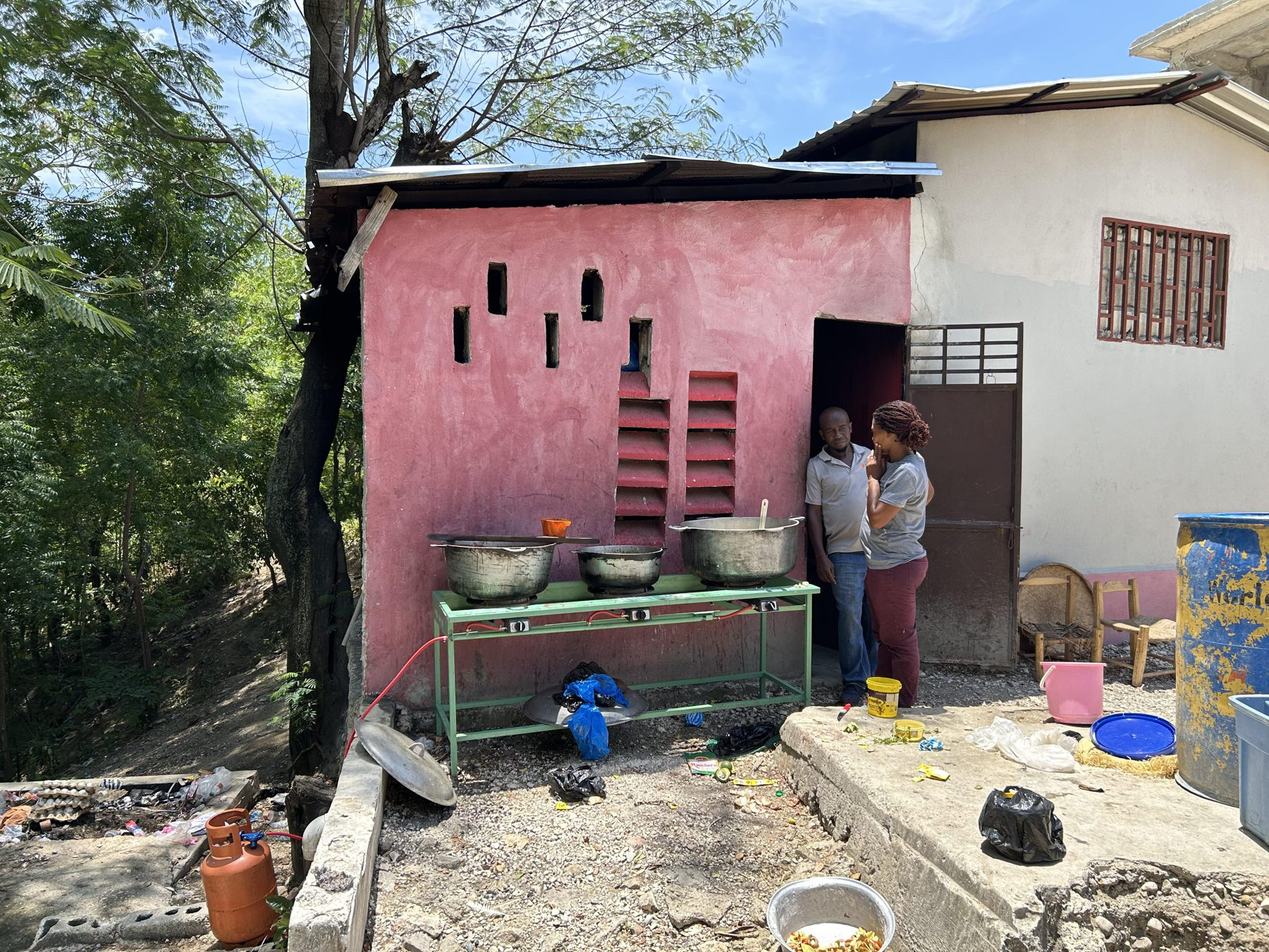
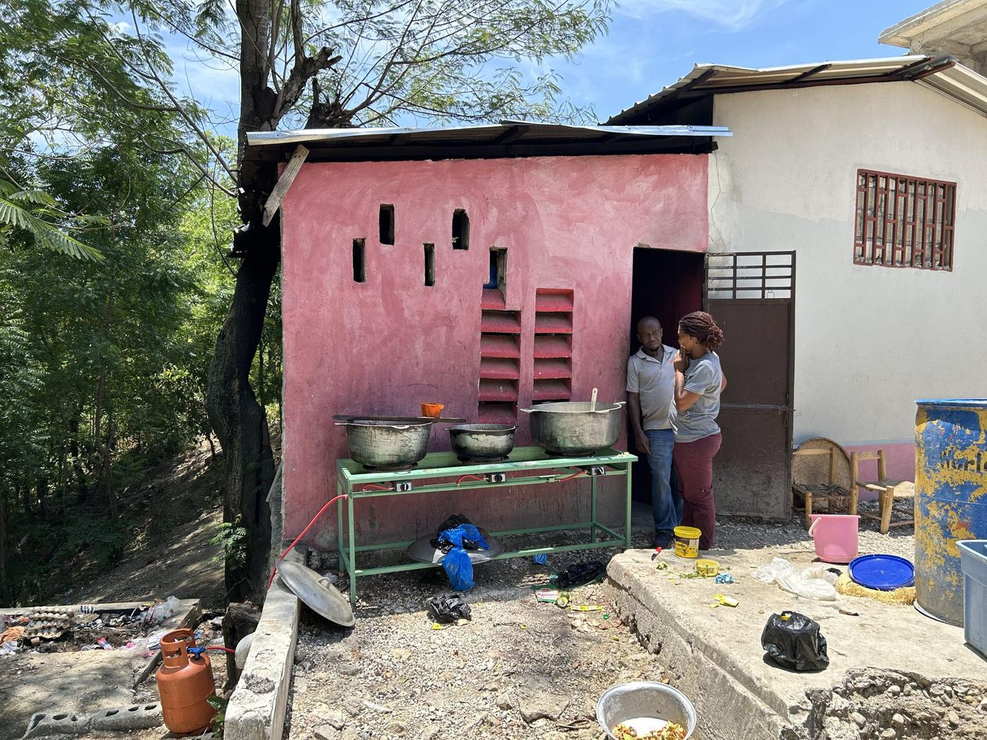
Fix P1 issues from design audit
- Point the two publication links at their DOIs instead of the project page
- Remove two duplicate photos (stops 2 and 4 showed the same image twice)
- Restore the keyboard focus ring on the overview stop buttons
- Resize photos to 1400px (8.2 MB -> 3.9 MB) and set the cover image in HTML
- Embed the driving route instead of fetching it from the public OSRM demo server

diff --git a/index.html b/index.html
@@ -33,7 +33,8 @@ body{margin:0;background:var(--paper);color:var(--ink);font:400 1.0625rem/1.72 v
 img{max-width:100%;display:block}
 a{color:var(--leaf);text-underline-offset:.18em;text-decoration-thickness:1px}
 @media (hover:hover){ a:hover{text-decoration-thickness:2px} }
-:focus-visible{outline:2px solid var(--canopy);outline-offset:3px;border-radius:4px;box-shadow:0 0 0 6px color-mix(in srgb,var(--mango) 45%,transparent)}
+/* .overview-list button uses all:unset, which outranks plain :focus-visible, so it is named here too. */
+:focus-visible,.overview-list button:focus-visible{outline:2px solid var(--canopy);outline-offset:3px;border-radius:4px;box-shadow:0 0 0 6px color-mix(in srgb,var(--mango) 45%,transparent)}
 /* Browser surfaces in the palette */
 ::selection{background:color-mix(in srgb,var(--mango) 38%,transparent);color:var(--ink)}
 html{scrollbar-color:color-mix(in srgb,var(--leaf) 60%,var(--paper)) var(--leaf-soft);caret-color:var(--leaf)}
@@ -333,7 +334,7 @@ html.lenis,html.lenis body{height:auto}
 <div class="jungle jungle-r" aria-hidden="true"><svg viewBox="0 0 320 1000" preserveAspectRatio="xMinYMid slice" focusable="false"><use href="#j-frond" class="j-field" transform="translate(-10 170) rotate(-4) scale(.9)"/><use href="#j-leaf" class="j-leaf" transform="translate(-36 300) rotate(-20) scale(1.1)"/><use href="#j-leaf" class="j-canopy" transform="translate(-44 520) rotate(18) scale(1.2)"/><use href="#j-frond" class="j-leaf" transform="translate(-12 700) rotate(10) scale(1.05)"/><use href="#j-stalk" class="j-field" transform="translate(95 1000) scale(.9)"/><use href="#j-leaf" class="j-canopy" transform="translate(-30 930) rotate(-34) scale(.9)"/></svg></div>
 <header class="cover">
   <a class="back-link" href="https://globalfoodinstitute.gwu.edu/leveraging-school-meals-crisis-resilience-haiti-0"><svg class="btn-ico" viewBox="0 0 24 24" aria-hidden="true" focusable="false"><path d="M15 6l-6 6 6 6"/></svg>Crisis-Resilient School Meals<span class="back-long"> at the Global Food Institute</span></a>
-  <img id="coverImg" alt="The Global Food Institute team in Haiti" fetchpriority="high">
+  <img id="coverImg" src="photos/2ab947bb-3d19-4f8e-a854-4085e5c7de89.jpeg" width="1400" height="933" alt="The Global Food Institute team in Haiti" fetchpriority="high">
   <div class="inner wrap"><div class="wide">
     <h1>Haiti Workshop and Coordination Work Trip</h1>
     <p class="sub">From field to meals</p>
@@ -417,8 +418,8 @@ html.lenis,html.lenis body{height:auto}
         <p>The first results are already being published.</p>
       </div>
       <ul class="pubs">
-        <li><a href="https://globalfoodinstitute.gwu.edu/leveraging-school-meals-crisis-resilience-haiti-0" target="_blank" rel="noopener noreferrer">From Aid to Engine: Reimagining School Feeding as a Driver of Resilient Food Systems</a><span>Global Food Institute, August 2026. The first in a series on the School Meals 3.0 model, also available in French.</span></li>
-        <li><a href="https://globalfoodinstitute.gwu.edu/leveraging-school-meals-crisis-resilience-haiti-0" target="_blank" rel="noopener noreferrer">Research in Practice: Deploying Anticipatory Analytics for School Feeding Programs in Fragile Settings</a><span>Global Food Institute and Summits Education, September 2026. How routine school feeding data can warn of trouble ahead.</span></li>
+        <li><a href="https://doi.org/10.4079/GFI.2026.07" target="_blank" rel="noopener noreferrer">From Aid to Engine: Reimagining School Feeding as a Driver of Resilient Food Systems</a><span>Global Food Institute, August 2026. The first in a series on the School Meals 3.0 model, also available in French.</span></li>
+        <li><a href="https://doi.org/10.4079/GFI.2026.09" target="_blank" rel="noopener noreferrer">Research in Practice: Deploying Anticipatory Analytics for School Feeding Programs in Fragile Settings</a><span>Global Food Institute and Summits Education, September 2026. How routine school feeding data can warn of trouble ahead.</span></li>
       </ul>
     </div>
   </div>
@@ -429,7 +430,6 @@ html.lenis,html.lenis body{height:auto}
 <p>This trip started in the north at the city of Cap-Haïtien, where we landed. After a quick breakfast of Haitian spaghetti, we hit the road toward the Central Plateau.</p>
 </div>
 <div class="takeaway" data-stop="2">
-<figure class="ph" data-photo="64b0d917-0255-44da-bebf-3100ee184fe6.jpeg" data-cap="The view from our hotel in Hinche. The town sits in the middle of the Central Plateau, an inland farming region of small plots and rolling hills, and was our base for two days of site visits."></figure>
 <p>After a scenic, bumpy four hours we arrived in Hinche. Our hotel here was home base while we visited the local Acceso depot and two schools in the Summits Education program.</p>
 </div>
 <div class="takeaway" data-stop="3">
@@ -440,7 +440,6 @@ html.lenis,html.lenis body{height:auto}
 <p>This is the Acceso depot for the area. Acceso runs depots across the country wherever it works. Each one is a collection point for local farmers: their harvests are pooled here, then shipped to wherever the order is going, whether that's a market, a school, or another buyer.</p>
 </div>
 <div class="takeaway" data-stop="4">
-<figure class="ph" data-photo="e93c60eb-8eae-47f0-8e5c-a91cc4d8bd7b.jpeg" data-cap="The kitchen at the first school, where staff cook about 350 meals a day. Every ingredient bought locally here is a sale for a Haitian farmer."></figure>
 <p>Our first school visit, to <a href="https://www.summits.org/school/communautaire-saint-paul-morne-thomonde" target="_blank" rel="noopener noreferrer">École Communautaire Saint Paul</a> in Morne Thomonde, happened to coincide with a teacher training seminar. Compared with other schools in the region, this one was relatively well built, though it still faced its share of challenges. Staff emphasized how much school meals matter. For many families, a guaranteed meal is a strong reason to send children to school, and students who aren't hungry are better able to concentrate and learn.</p>
 </div>
 <div class="takeaway" data-stop="5">
@@ -516,7 +515,6 @@ function scrollToCenter(el){
 const PHOTO_BASE = "photos/";
 const photo = f => PHOTO_BASE + f;
 
-const COVER = "2ab947bb-3d19-4f8e-a854-4085e5c7de89.jpeg";
 const LOGOS = [["wnqyH5sh1xxX_l_St4vSM.png","Acceso"],["1bXtjCD3TohY00w412tI4.jpg","Global Food Institute"],["Ja6-N-aR8NJqvau0j94S5.jpg","Haiti Food System Alliance"],["b4glSokmEHiOJI7EO3SvQ.png","Summits Education"],["yTHtboZo3gm4pDx8rqfKx.jpg","World Central Kitchen"],["photos/chibas-logo.png","Chibas"]];
 
 const STOPS = [
@@ -547,7 +545,6 @@ const esc = s => s.replace(/&/g,"&amp;").replace(/</g,"&lt;").replace(/"/g,"&quo
 const fmt = (lat,lng) => `${Math.abs(lat).toFixed(4)}° N, ${Math.abs(lng).toFixed(4)}° W`;
 
 /* Static photos */
-document.getElementById("coverImg").src = photo(COVER);
 document.getElementById("logos").innerHTML = LOGOS.map(([f, name]) => f.includes("/")  /* a logo already saved in this folder, e.g. photos/chibas-logo.png */
   ? `<figure class="fill"><img src="${f}" alt="${esc(name)}" loading="lazy"></figure>`
   : `<figure><img src="${photo(f)}" alt="${esc(name)}" loading="lazy"></figure>`).join("");
@@ -683,18 +680,10 @@ const bounds = L.latLngBounds(pts).pad(0.5);
 map.fitBounds(bounds);
 
 const leaf = getComputedStyle(document.documentElement).getPropertyValue("--leaf").trim() || "#2E6B45";
-let route = L.polyline(pts, { color:leaf, weight:3, opacity:.7, dashArray:"6 8" }).addTo(map);
-
-/* Road-following route from the public OSRM service; keeps the dashed straight line if unavailable. */
-fetch("https://router.project-osrm.org/route/v1/driving/" + STOPS.map(s => `${s.lng},${s.lat}`).join(";") + "?overview=full&geometries=geojson")
-  .then(r => r.ok ? r.json() : Promise.reject())
-  .then(j => {
-    const c = j.routes && j.routes[0] && j.routes[0].geometry.coordinates;
-    if (!c) return;
-    map.removeLayer(route);
-    route = L.polyline(c.map(([x,y]) => [y,x]), { color:leaf, weight:4, opacity:.85 }).addTo(map);
-    markers.forEach(m => m.bringToFront && m.bringToFront());
-  }).catch(() => {});
+/* Road-following route, fetched once from OSRM (driving, via all stops in order) and simplified to ~20 m.
+   Saved here so the page does not depend on the public OSRM demo server. */
+const ROUTE = [[19.7592,-72.198],[19.7554,-72.201],[19.7528,-72.202],[19.7498,-72.2026],[19.7472,-72.2017],[19.7444,-72.1993],[19.7403,-72.1923],[19.7395,-72.1902],[19.735,-72.1869],[19.7357,-72.1861],[19.7353,-72.1857],[19.7345,-72.1865],[19.729,-72.1825],[19.7278,-72.182],[19.6828,-72.1799],[19.6817,-72.1803],[19.6784,-72.1831],[19.6754,-72.1851],[19.6625,-72.193],[19.6576,-72.1941],[19.6444,-72.1952],[19.6239,-72.1976],[19.6234,-72.1969],[19.6225,-72.1891],[19.6221,-72.1791],[19.6215,-72.1725],[19.6204,-72.1718],[19.6164,-72.1706],[19.6146,-72.1708],[19.6138,-72.1711],[19.6129,-72.1723],[19.6103,-72.1728],[19.6059,-72.1744],[19.6043,-72.1769],[19.6034,-72.1779],[19.6023,-72.1785],[19.6017,-72.1804],[19.6003,-72.1826],[19.5982,-72.184],[19.596,-72.1844],[19.5959,-72.1866],[19.5946,-72.1884],[19.594,-72.1917],[19.592,-72.1943],[19.5917,-72.1954],[19.5894,-72.1967],[19.5862,-72.1999],[19.585,-72.2065],[19.5852,-72.2077],[19.5843,-72.208],[19.5846,-72.2089],[19.5843,-72.2107],[19.5836,-72.2105],[19.5835,-72.2098],[19.583,-72.2097],[19.5825,-72.2116],[19.582,-72.2112],[19.5813,-72.2114],[19.581,-72.2108],[19.5802,-72.211],[19.5798,-72.2122],[19.5791,-72.2131],[19.5784,-72.2128],[19.5779,-72.2134],[19.5773,-72.2134],[19.5765,-72.2139],[19.5763,-72.2145],[19.5755,-72.2141],[19.5739,-72.2144],[19.5733,-72.215],[19.5724,-72.2147],[19.571,-72.2154],[19.5687,-72.216],[19.5681,-72.2164],[19.568,-72.2169],[19.5664,-72.217],[19.5658,-72.2174],[19.5641,-72.2201],[19.5639,-72.2212],[19.5623,-72.2236],[19.562,-72.2255],[19.56,-72.2313],[19.5588,-72.2325],[19.5587,-72.2335],[19.5579,-72.2356],[19.5567,-72.2363],[19.5526,-72.2375],[19.546,-72.2367],[19.5392,-72.2371],[19.5383,-72.2387],[19.5358,-72.2391],[19.5283,-72.2419],[19.526,-72.239],[19.5243,-72.2397],[19.5234,-72.2389],[19.5219,-72.2363],[19.522,-72.2339],[19.5212,-72.2327],[19.5191,-72.2326],[19.5178,-72.2313],[19.5158,-72.2307],[19.5125,-72.2308],[19.5078,-72.2304],[19.5062,-72.2297],[19.5045,-72.2282],[19.5012,-72.2275],[19.5,-72.2252],[19.4948,-72.2215],[19.4935,-72.2196],[19.4919,-72.2183],[19.4914,-72.2166],[19.49,-72.215],[19.4902,-72.2119],[19.4874,-72.2099],[19.4863,-72.2096],[19.4841,-72.2085],[19.4827,-72.2084],[19.4729,-72.2055],[19.469,-72.2046],[19.466,-72.2044],[19.4623,-72.2028],[19.4599,-72.2034],[19.4588,-72.2032],[19.4572,-72.2039],[19.4536,-72.2045],[19.4416,-72.2015],[19.439,-72.2002],[19.4386,-72.1981],[19.4372,-72.1958],[19.4371,-72.1941],[19.4356,-72.1914],[19.4353,-72.1889],[19.4331,-72.1881],[19.4314,-72.188],[19.4302,-72.1867],[19.4279,-72.1811],[19.424,-72.1758],[19.4215,-72.1697],[19.419,-72.167],[19.4152,-72.1649],[19.4093,-72.1608],[19.4081,-72.1589],[19.4039,-72.1569],[19.4015,-72.1562],[19.3976,-72.1537],[19.3955,-72.1515],[19.3917,-72.1463],[19.3899,-72.1423],[19.3859,-72.1353],[19.3855,-72.1313],[19.3858,-72.1291],[19.3854,-72.128],[19.3848,-72.1274],[19.3819,-72.1268],[19.3743,-72.1266],[19.3502,-72.1267],[19.3427,-72.1227],[19.341,-72.1212],[19.3383,-72.1174],[19.3349,-72.116],[19.3318,-72.1157],[19.3302,-72.1142],[19.3262,-72.1137],[19.3179,-72.1106],[19.3166,-72.1087],[19.3136,-72.1011],[19.3098,-72.0941],[19.3084,-72.0927],[19.3062,-72.0915],[19.3008,-72.0905],[19.2993,-72.0887],[19.2991,-72.087],[19.2977,-72.0864],[19.2945,-72.0819],[19.2922,-72.0727],[19.296,-72.0626],[19.2939,-72.0607],[19.293,-72.0571],[19.2923,-72.0559],[19.2883,-72.0512],[19.2851,-72.0486],[19.2797,-72.0474],[19.2771,-72.048],[19.2738,-72.0457],[19.2699,-72.0451],[19.2673,-72.0398],[19.2664,-72.033],[19.266,-72.0323],[19.2654,-72.0319],[19.2597,-72.0302],[19.2519,-72.0261],[19.2513,-72.026],[19.2492,-72.0267],[19.2477,-72.0268],[19.2459,-72.0265],[19.2433,-72.0253],[19.2411,-72.0258],[19.2388,-72.0254],[19.2358,-72.0272],[19.2328,-72.0279],[19.2299,-72.0274],[19.2255,-72.0258],[19.2246,-72.0261],[19.2231,-72.0279],[19.222,-72.0285],[19.2198,-72.0282],[19.2177,-72.0275],[19.216,-72.0276],[19.2134,-72.0288],[19.207,-72.028],[19.2039,-72.0268],[19.2014,-72.025],[19.2,-72.0245],[19.1943,-72.0239],[19.187,-72.0222],[19.1834,-72.0203],[19.182,-72.0199],[19.1798,-72.0202],[19.1666,-72.0153],[19.1642,-72.0139],[19.1638,-72.0104],[19.1629,-72.0096],[19.1536,-72.0094],[19.1502,-72.0087],[19.1478,-72.0091],[19.1466,-72.0085],[19.1444,-72.0094],[19.145,-72.0107],[19.1464,-72.0103],[19.146,-72.0087],[19.1442,-72.006],[19.1414,-72.0037],[19.139,-72.0028],[19.139,-72.0034],[19.1379,-72.0046],[19.1373,-72.0041],[19.1377,-72.0025],[19.1342,-72.0026],[19.1312,-72.0033],[19.1295,-72.0033],[19.1253,-72.0022],[19.1208,-72.0015],[19.1138,-72.0086],[19.1091,-72.0095],[19.1057,-72.0061],[19.0997,-72.0019],[19.0957,-72.0019],[19.0909,-71.9991],[19.0885,-71.9953],[19.0865,-71.993],[19.0829,-71.9925],[19.0793,-71.9939],[19.0759,-71.9963],[19.0755,-71.9964],[19.0728,-71.9921],[19.0714,-71.9886],[19.0701,-71.9882],[19.0682,-71.9885],[19.0657,-71.9865],[19.0632,-71.9859],[19.063,-71.9852],[19.0635,-71.9831],[19.0633,-71.9826],[19.0598,-71.979],[19.0579,-71.9758],[19.0571,-71.9753],[19.0557,-71.9754],[19.0544,-71.9733],[19.0525,-71.9731],[19.0502,-71.9714],[19.0493,-71.9715],[19.0488,-71.9709],[19.048,-71.9708],[19.0472,-71.9715],[19.047,-71.9725],[19.0472,-71.9738],[19.0445,-71.9747],[19.0427,-71.9744],[19.036,-71.9707],[19.0318,-71.9692],[19.0295,-71.9676],[19.0286,-71.966],[19.0267,-71.9659],[19.025,-71.9654],[19.0253,-71.9673],[19.0244,-71.9678],[19.0242,-71.9675],[19.0216,-71.9695],[19.0208,-71.969],[19.0191,-71.9698],[19.0184,-71.9645],[19.0172,-71.9616],[19.0152,-71.9575],[19.0134,-71.952],[19.0123,-71.9507],[19.0117,-71.9504],[19.0054,-71.9524],[19.0041,-71.952],[19.0035,-71.9513],[19.003,-71.9512],[19.0004,-71.9519],[18.9997,-71.9527],[19.0002,-71.9548],[18.9989,-71.9562],[18.9986,-71.9579],[18.998,-71.9588],[18.9984,-71.9629],[18.9993,-71.9654],[18.9991,-71.969],[18.9983,-71.9709],[18.9972,-71.9717],[18.9958,-71.9732],[18.9962,-71.9745],[18.9955,-71.9752],[18.9955,-71.9758],[18.9946,-71.9772],[18.9949,-71.9786],[18.9964,-71.9798],[18.9963,-71.9812],[18.9967,-71.9819],[18.9936,-71.9868],[18.9933,-71.9878],[18.9936,-71.9891],[18.9933,-71.9894],[18.9915,-71.9903],[18.9906,-71.9901],[18.9885,-71.987],[18.9861,-71.9846],[18.9855,-71.9835],[18.9838,-71.9821],[18.9829,-71.9823],[18.98,-71.9817],[18.9784,-71.9829],[18.9776,-71.9827],[18.976,-71.9814],[18.9752,-71.9813],[18.974,-71.982],[18.9737,-71.9828],[18.9743,-71.9855],[18.9741,-71.9882],[18.9735,-71.9904],[18.9738,-71.9935],[18.9708,-71.9956],[18.9703,-71.9984],[18.9679,-71.9987],[18.9668,-71.9977],[18.9646,-71.9988],[18.9643,-71.9998],[18.965,-72.0014],[18.9651,-72.0033],[18.9647,-72.0043],[18.9638,-72.0052],[18.9624,-72.0057],[18.9591,-72.006],[18.9573,-72.005],[18.9541,-72.0053],[18.9474,-72.0015],[18.9453,-71.9989],[18.9448,-71.999],[18.9442,-72.0004],[18.9448,-71.999],[18.9453,-71.9989],[18.9474,-72.0015],[18.9541,-72.0053],[18.9573,-72.005],[18.9591,-72.006],[18.9624,-72.0057],[18.9638,-72.0052],[18.9647,-72.0043],[18.9651,-72.0033],[18.965,-72.0014],[18.9643,-71.9998],[18.9646,-71.9988],[18.9668,-71.9977],[18.9679,-71.9987],[18.9703,-71.9984],[18.9708,-71.9956],[18.9738,-71.9935],[18.9735,-71.9904],[18.9741,-71.9882],[18.9743,-71.9855],[18.9737,-71.9828],[18.974,-71.982],[18.9752,-71.9813],[18.976,-71.9814],[18.9776,-71.9827],[18.9784,-71.9829],[18.98,-71.9817],[18.9829,-71.9823],[18.9838,-71.9821],[18.9855,-71.9835],[18.9861,-71.9846],[18.9885,-71.987],[18.9906,-71.9901],[18.9915,-71.9903],[18.9933,-71.9894],[18.9936,-71.9891],[18.9933,-71.9878],[18.9936,-71.9868],[18.9967,-71.9819],[18.9963,-71.9812],[18.9964,-71.9798],[18.9949,-71.9786],[18.9946,-71.9772],[18.9955,-71.9758],[18.9955,-71.9752],[18.9962,-71.9745],[18.9958,-71.9732],[18.9972,-71.9717],[18.9983,-71.9709],[18.9991,-71.969],[18.9993,-71.9654],[18.9984,-71.9629],[18.998,-71.9588],[18.9986,-71.9579],[18.9989,-71.9562],[19.0002,-71.9548],[18.9997,-71.9527],[19.0004,-71.9519],[19.003,-71.9512],[19.0035,-71.9513],[19.0041,-71.952],[19.0054,-71.9524],[19.0117,-71.9504],[19.0123,-71.9507],[19.0134,-71.952],[19.0152,-71.9575],[19.0184,-71.9645],[19.0211,-71.9642],[19.0267,-71.9659],[19.0286,-71.966],[19.0295,-71.9676],[19.0318,-71.9692],[19.036,-71.9707],[19.0427,-71.9744],[19.0445,-71.9747],[19.0472,-71.9738],[19.047,-71.9725],[19.0472,-71.9715],[19.048,-71.9708],[19.0488,-71.9709],[19.0493,-71.9715],[19.0503,-71.9714],[19.0525,-71.9731],[19.0543,-71.9732],[19.0556,-71.9753],[19.0571,-71.9753],[19.0579,-71.9758],[19.0598,-71.979],[19.0628,-71.9818],[19.0635,-71.9831],[19.063,-71.9846],[19.0632,-71.9859],[19.0657,-71.9865],[19.0682,-71.9885],[19.0701,-71.9882],[19.0714,-71.9886],[19.0728,-71.9921],[19.0755,-71.9964],[19.0759,-71.9963],[19.0793,-71.9939],[19.0829,-71.9925],[19.0865,-71.993],[19.0885,-71.9953],[19.0909,-71.9991],[19.0957,-72.0019],[19.0997,-72.0019],[19.1057,-72.0061],[19.1091,-72.0095],[19.1138,-72.0086],[19.1208,-72.0015],[19.1253,-72.0022],[19.1295,-72.0033],[19.1311,-72.0029],[19.1377,-72.0025],[19.1373,-72.0041],[19.1379,-72.0046],[19.139,-72.0034],[19.139,-72.0028],[19.1414,-72.0037],[19.1441,-72.0059],[19.146,-72.0087],[19.1466,-72.0085],[19.1478,-72.0091],[19.1502,-72.0087],[19.1536,-72.0094],[19.1603,-72.0095],[19.1609,-72.0091],[19.1613,-72.0095],[19.1629,-72.0096],[19.1638,-72.0104],[19.1642,-72.0139],[19.1666,-72.0153],[19.1798,-72.0202],[19.182,-72.0199],[19.1834,-72.0203],[19.187,-72.0222],[19.1943,-72.0239],[19.2,-72.0245],[19.2014,-72.025],[19.2039,-72.0268],[19.207,-72.028],[19.2134,-72.0288],[19.216,-72.0276],[19.2177,-72.0275],[19.2198,-72.0282],[19.222,-72.0285],[19.2231,-72.0279],[19.2246,-72.0261],[19.2255,-72.0258],[19.2299,-72.0274],[19.2328,-72.0279],[19.2358,-72.0272],[19.2388,-72.0254],[19.2411,-72.0258],[19.2433,-72.0253],[19.2459,-72.0265],[19.2477,-72.0268],[19.2492,-72.0267],[19.2513,-72.026],[19.2519,-72.0261],[19.2597,-72.0302],[19.2654,-72.0319],[19.266,-72.0323],[19.2664,-72.033],[19.2673,-72.0398],[19.2699,-72.0451],[19.2738,-72.0457],[19.2771,-72.048],[19.2797,-72.0474],[19.2851,-72.0486],[19.2883,-72.0512],[19.2923,-72.0559],[19.293,-72.0571],[19.2939,-72.0607],[19.296,-72.0626],[19.2922,-72.0727],[19.2945,-72.0819],[19.2977,-72.0864],[19.2991,-72.087],[19.2993,-72.0887],[19.3008,-72.0905],[19.3062,-72.0915],[19.3084,-72.0927],[19.3098,-72.0941],[19.3136,-72.1011],[19.3166,-72.1087],[19.3179,-72.1106],[19.3262,-72.1137],[19.3302,-72.1142],[19.3318,-72.1157],[19.3349,-72.116],[19.3383,-72.1174],[19.341,-72.1212],[19.3427,-72.1227],[19.3502,-72.1267],[19.3743,-72.1266],[19.3819,-72.1268],[19.3848,-72.1274],[19.3854,-72.128],[19.3858,-72.1291],[19.3855,-72.1313],[19.3859,-72.1353],[19.3899,-72.1423],[19.3917,-72.1463],[19.3955,-72.1515],[19.3976,-72.1537],[19.4015,-72.1562],[19.4039,-72.1569],[19.4081,-72.1589],[19.4093,-72.1608],[19.4152,-72.1649],[19.419,-72.167],[19.4215,-72.1697],[19.424,-72.1758],[19.4279,-72.1811],[19.4302,-72.1867],[19.4314,-72.188],[19.4331,-72.1881],[19.4353,-72.1889],[19.4356,-72.1914],[19.4371,-72.1941],[19.4372,-72.1958],[19.4386,-72.1981],[19.439,-72.2002],[19.4416,-72.2015],[19.4536,-72.2045],[19.4572,-72.2039],[19.4588,-72.2032],[19.4599,-72.2034],[19.4623,-72.2028],[19.466,-72.2044],[19.469,-72.2046],[19.4729,-72.2055],[19.4827,-72.2084],[19.4841,-72.2085],[19.4863,-72.2096],[19.4874,-72.2099],[19.4902,-72.2119],[19.49,-72.215],[19.4914,-72.2166],[19.4919,-72.2183],[19.4935,-72.2196],[19.4948,-72.2215],[19.5,-72.2252],[19.5012,-72.2275],[19.5045,-72.2282],[19.5062,-72.2297],[19.5078,-72.2304],[19.5125,-72.2308],[19.5158,-72.2307],[19.5178,-72.2313],[19.5191,-72.2326],[19.5212,-72.2327],[19.522,-72.2339],[19.5219,-72.2363],[19.5234,-72.2389],[19.5243,-72.2397],[19.526,-72.239],[19.5284,-72.2419],[19.5358,-72.2391],[19.5383,-72.2387],[19.5392,-72.2371],[19.546,-72.2367],[19.5526,-72.2375],[19.5567,-72.2363],[19.5579,-72.2356],[19.5587,-72.2335],[19.5588,-72.2325],[19.56,-72.2313],[19.562,-72.2255],[19.5623,-72.2236],[19.5639,-72.2212],[19.5641,-72.2201],[19.5658,-72.2174],[19.5664,-72.217],[19.568,-72.2169],[19.5681,-72.2164],[19.5687,-72.216],[19.571,-72.2154],[19.5724,-72.2147],[19.5733,-72.215],[19.5739,-72.2144],[19.5755,-72.2141],[19.5763,-72.2145],[19.5765,-72.2139],[19.5773,-72.2134],[19.5779,-72.2134],[19.5784,-72.2128],[19.5791,-72.2131],[19.5798,-72.2122],[19.5802,-72.211],[19.581,-72.2108],[19.5813,-72.2114],[19.582,-72.2112],[19.5825,-72.2116],[19.583,-72.2097],[19.5835,-72.2098],[19.5836,-72.2105],[19.5843,-72.2107],[19.5846,-72.2089],[19.5843,-72.208],[19.5852,-72.2077],[19.585,-72.2065],[19.5862,-72.1999],[19.5894,-72.1967],[19.5917,-72.1954],[19.592,-72.1943],[19.594,-72.1917],[19.5946,-72.1884],[19.5959,-72.1866],[19.596,-72.1844],[19.5982,-72.184],[19.6003,-72.1826],[19.6017,-72.1804],[19.6023,-72.1785],[19.6034,-72.1779],[19.6043,-72.1769],[19.6059,-72.1744],[19.6103,-72.1728],[19.6129,-72.1723],[19.6143,-72.1709],[19.6164,-72.1706],[19.6204,-72.1718],[19.6215,-72.1725],[19.6221,-72.1791],[19.6225,-72.1891],[19.6234,-72.1969],[19.6239,-72.1976],[19.6444,-72.1952],[19.6579,-72.1941],[19.6631,-72.1927],[19.6754,-72.1851],[19.6825,-72.18],[19.697,-72.1805],[19.6963,-72.1707],[19.6965,-72.159],[19.6937,-72.1586],[19.6919,-72.1561],[19.6914,-72.1543],[19.6933,-72.1542],[19.6934,-72.1544],[19.694,-72.1543],[19.6939,-72.1539],[19.694,-72.1543],[19.6934,-72.1544],[19.6933,-72.1542],[19.6914,-72.1543],[19.689,-72.1458],[19.688,-72.1388],[19.6873,-72.1374],[19.6735,-72.1258],[19.6722,-72.1244],[19.672,-72.1209],[19.6725,-72.1174],[19.6714,-72.1133],[19.6613,-72.0828],[19.6538,-72.0621],[19.6537,-72.06],[19.6546,-72.0576],[19.6648,-72.0386],[19.6582,-72.0166]];
+L.polyline(ROUTE, { color:leaf, weight:4, opacity:.85 }).addTo(map);
 
 const markers = STOPS.map((s,i) => {
   const m = L.marker([s.lat, s.lng], { icon: L.divIcon({ className:"", html:`<div class="pin">${i+1}</div>`, iconSize:[30,30], iconAnchor:[15,15] }), title:s.title, zIndexOffset:100 }).addTo(map);
